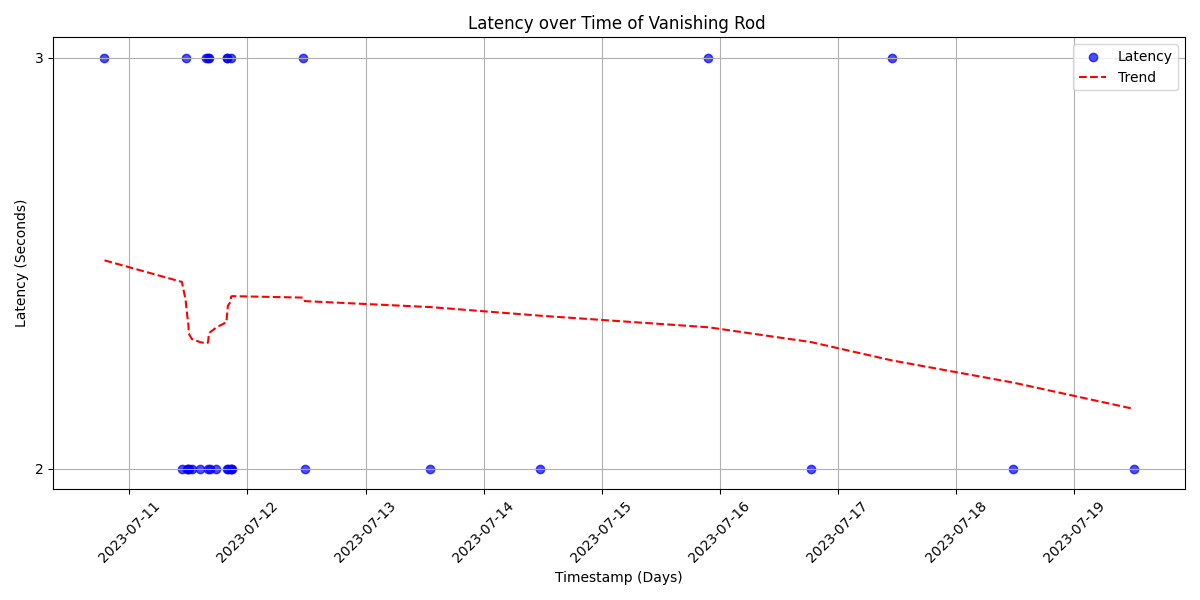
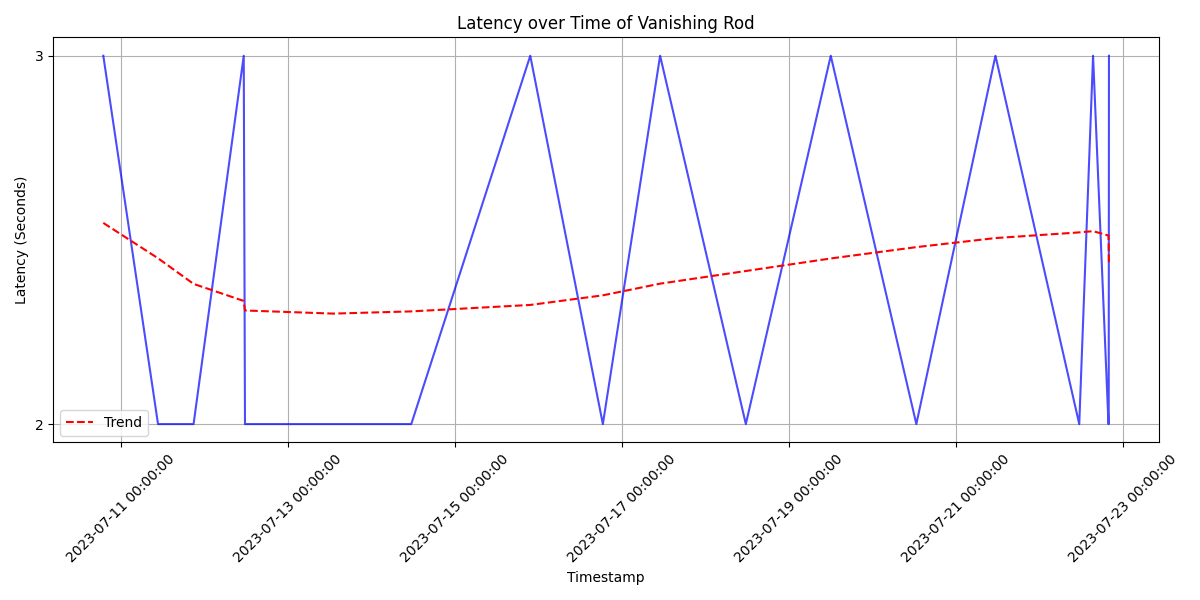
Add files via upload

diff --git a/vanishing_Labscale_purV1.0/lab_timing.py b/vanishing_Labscale_purV1.0/lab_timing.py
@@ -3,63 +3,74 @@ from skimage.metrics import structural_similarity as ssim
 from datetime import datetime
 import lab_selenium
 import logging
-logging.basicConfig(filename='lab_latency.log', filemode='a',format='%(asctime)s - %(levelname)s - %(message)s', level=logging.INFO)
+import os
+
+logging.basicConfig(filename='lab_latency.log', filemode='a', format='%(asctime)s - %(levelname)s - %(message)s', level=logging.INFO)
 arr = lab_selenium.timestamps
 print(arr)
-arr = [datetime.strptime(date_str, '%Y-%m-%d %H:%M:%S,%f') for date_str in arr]
+arr = [datetime.strptime(date_str, '%Y-%m-%d %H:%M:%S') for date_str in arr]
 
 # moving down click ka timestamp
-moving_down  = datetime.strptime(lab_selenium.d_movement, '%Y-%m-%d %H:%M:%S,,%f')
-print(moving_down)
+
+
+moving_down = datetime.strptime(lab_selenium.d_movement, '%Y-%m-%d %H:%M:%S')
+print("the moving down : ",moving_down)
+
 
 start_index = 0
-end_index = 9
+end_index = 8
 
 def check_latency(screenshot_paths):
     still_count = 0
     moving_count = 0
-    flag=0
-    # Iterate over consecutive pairs of screensots
-    for i in range(0,end_index+1,2):
+    flag = 0
+    timestamp1 = None  # Initialize timestamp1 to None
+
+    # Iterate over consecutive pairs of screenshots
+    for i in range(start_index, end_index, 2):
         # Load the current and next screenshots
-        # The dynamic number
         current_image = 'moving_down_lab/screenshot_{}.png'.format(i)
-        next_image  = 'moving_down_lab/screenshot_{}.png'.format(i+2)
+        next_image = 'moving_down_lab/screenshot_{}.png'.format(i + 1)
         print(current_image)
         print(next_image)
 
         current_image = cv2.imread(current_image)
         next_image = cv2.imread(next_image)
 
+        # Error handling for image loading
+        if current_image is None:
+            print(f"Error: Failed to load image {current_image}")
+            continue
+
+        if next_image is None:
+            print(f"Error: Failed to load image {next_image}")
+            continue
+
         # Compare the current and next screenshots
-        # similarity_score = compare_images(current_image, next_image)
         gray1 = cv2.cvtColor(current_image, cv2.COLOR_BGR2GRAY)
         gray2 = cv2.cvtColor(next_image, cv2.COLOR_BGR2GRAY)
 
         similarity_score = ssim(gray1, gray2)
         print(similarity_score)
 
-
         # Increment the appropriate counter
         similarity_threshold = 0.96
         if similarity_score >= similarity_threshold:
             print("moving")
-            
-            if flag!=1:
-                print("still --> moving")
-                # Timestamp 1
-                #timestamp1 = datetime.now()
-                timestamp1 = arr[i+1]
-                current_image = 'moving_down_lab/screenshot_{}.png'.format(i)
-                next_image  = 'moving_down_lab/screenshot_{}.png'.format(i+1)
+            if flag != 1:
+                if i < end_index:
+                    timestamp1 = arr[i + 1]
+                    current_image = 'moving_down_lab/screenshot_{}.png'.format(i)
+                    next_image = 'moving_down_lab/screenshot_{}.png'.format(i + 1)
+                if not (os.path.exists(current_image) and os.path.exists(next_image)):
+                    print(f"Error: Some screenshot files are missing. Skipping iteration {i}.")
+                    continue
                 print(current_image)
                 print(next_image)
 
                 current_image = cv2.imread(current_image)
                 next_image = cv2.imread(next_image)
 
-                # Compare the current and next screenshots
-                # similarity_score = compare_images(current_image, next_image)
                 gray1 = cv2.cvtColor(current_image, cv2.COLOR_BGR2GRAY)
                 gray2 = cv2.cvtColor(next_image, cv2.COLOR_BGR2GRAY)
 
@@ -68,16 +79,18 @@ def check_latency(screenshot_paths):
                 if similarity_score <= similarity_threshold:
                     still_count += 1
                     print("still")
-                    #time_diff-=2
-
+                    # timestamp1= arr[i]
                 else:
-                    moving_count+=1
+                    moving_count += 1
                     print("moving")
-                    timestamp1 = arr[i]
-            flag=1
+                    timestamp1 = arr[i+1]
+            flag = 1
+
+
 
     latency = (timestamp1 - moving_down).total_seconds()
     logging.info("Latency: %f seconds", latency)
+
 
 screenshot_paths = []
 

diff --git a/vanishing_Labscale_purV1.0/log_graph.py b/vanishing_Labscale_purV1.0/log_graph.py
@@ -1,4 +1,79 @@
+# import matplotlib.pyplot as plt
+# import numpy as np
+# from datetime import datetime
+
+# # Function to parse the log data and extract timestamps and latency values
+# def parse_log_data(log_data):
+#     timestamps = []
+#     latencies = []
+#     for line in log_data.strip().split('\n'):
+#         parts = line.split(' - ')
+#         timestamp_str = parts[0]
+#         latency_str = parts[2].split(': ')[1].split(' seconds')[0]
+        
+#         timestamp = datetime.strptime(timestamp_str, '%Y-%m-%d %H:%M:%S,%f')
+#         latency = float(latency_str)
+        
+#         timestamps.append(timestamp)
+#         latencies.append(latency)
+    
+#     return timestamps, latencies
+
+# # Read log data from the log file
+# log_file = "lab_latency.log"
+# with open(log_file, "r") as file:
+#     log_data = file.read()
+
+# # Parse the log data
+# timestamps, latencies = parse_log_data(log_data)
+
+# # Calculate the z-scores for latency values
+# z_scores = np.abs((latencies - np.mean(latencies)) / np.std(latencies))
+
+# # Define a threshold for outliers (e.g., 3 standard deviations)
+# outlier_threshold = 3
+
+# # Filter out data points with high z-scores (outliers)
+# timestamps_filtered = [ts for i, ts in enumerate(timestamps) if z_scores[i] <= outlier_threshold]
+# latencies_filtered = [lat for i, lat in enumerate(latencies) if z_scores[i] <= outlier_threshold]
+
+# # Create the plot
+# plt.figure(figsize=(12, 6))
+# plt.scatter(timestamps_filtered, latencies_filtered, marker='o', label='Latency', color='blue', alpha=0.7)
+# plt.xlabel('Timestamp (Days)')
+# plt.ylabel('Latency (Seconds)')
+# plt.title('Latency over Time of Vanishing Rod ')
+# plt.xticks(rotation=45)
+# plt.grid(True)
+
+# # Perform polynomial regression for the line of best fit (using filtered data)
+# z_filtered = np.polyfit(range(len(timestamps_filtered)), latencies_filtered, 3)
+# p_filtered = np.poly1d(z_filtered)
+# plt.plot(timestamps_filtered, p_filtered(range(len(timestamps_filtered))), label='Trend', color='red', linestyle='--')
+
+# # Set y-axis to show integers only
+# plt.locator_params(axis='y', integer=True)
+
+# # Save the plot as an image in the 'images' folder (create the folder if it doesn't exist)
+# output_folder = "latency_graph"
+# output_file = f"{output_folder}/latency_graph.png"
+
+# import os
+# if not os.path.exists(output_folder):
+#     os.makedirs(output_folder)
+
+# plt.tight_layout()
+# plt.legend()
+# plt.savefig(output_file)
+# plt.close()
+
+# print(f"Graph saved as '{output_file}'")
+
+
+
+# nagesh new graph code
 import matplotlib.pyplot as plt
+import matplotlib.dates as mdates
 import numpy as np
 from datetime import datetime
 
@@ -27,22 +102,25 @@ with open(log_file, "r") as file:
 # Parse the log data
 timestamps, latencies = parse_log_data(log_data)
 
+# Convert timestamps to matplotlib dates for better formatting
+timestamps_mpl = mdates.date2num(timestamps)
+
 # Calculate the z-scores for latency values
 z_scores = np.abs((latencies - np.mean(latencies)) / np.std(latencies))
 
 # Define a threshold for outliers (e.g., 3 standard deviations)
-outlier_threshold = 3
+outlier_threshold = 8
 
 # Filter out data points with high z-scores (outliers)
-timestamps_filtered = [ts for i, ts in enumerate(timestamps) if z_scores[i] <= outlier_threshold]
+timestamps_filtered = [ts for i, ts in enumerate(timestamps_mpl) if z_scores[i] <= outlier_threshold]
 latencies_filtered = [lat for i, lat in enumerate(latencies) if z_scores[i] <= outlier_threshold]
 
 # Create the plot
 plt.figure(figsize=(12, 6))
-plt.scatter(timestamps_filtered, latencies_filtered, marker='o', label='Latency', color='blue', alpha=0.7)
-plt.xlabel('Timestamp (Days)')
+plt.plot_date(timestamps_filtered, latencies_filtered, marker='', linestyle='-', color='blue', alpha=0.7)
+plt.xlabel('Timestamp')
 plt.ylabel('Latency (Seconds)')
-plt.title('Latency over Time of Vanishing Rod ')
+plt.title('Latency over Time of Vanishing Rod')
 plt.xticks(rotation=45)
 plt.grid(True)
 
@@ -53,6 +131,9 @@ plt.plot(timestamps_filtered, p_filtered(range(len(timestamps_filtered))), label
 
 # Set y-axis to show integers only
 plt.locator_params(axis='y', integer=True)
+
+# Set date format for x-axis ticks
+plt.gca().xaxis.set_major_formatter(mdates.DateFormatter('%Y-%m-%d %H:%M:%S'))
 
 # Save the plot as an image in the 'images' folder (create the folder if it doesn't exist)
 output_folder = "latency_graph"

diff --git a/vanishing_Labscale_purV1.0/lab_selenium.py b/vanishing_Labscale_purV1.0/lab_selenium.py
@@ -54,7 +54,7 @@ def process_video_frames(driver: webdriver.Chrome, video_xpath: str):
 
     for i in range(total_screenshots):
         video_screenshot = video_element.screenshot_as_png
-        update_timestamps(datetime.datetime.now().strftime("%Y-%m-%d %H:%M:%S,%f"))
+        update_timestamps(datetime.datetime.now().strftime("%Y-%m-%d %H:%M:%S"))
 
         if move == 0:
             screenshot_file = f"moving_down_lab/screenshot_{i}.png"
@@ -130,7 +130,7 @@ def perform_action(element):
     except NoSuchElementException:
         web_element = driver.find_element(By.XPATH, "//*[contains(text(), 'Exit Experiment')]")
         web_element.click()
-        # print(list(web_element))
+        # # print(list(web_element))
         print(f"Element not found: {locator_value}")
         return
 
@@ -143,7 +143,9 @@ def perform_action(element):
         #     web_element[2].click()
         # else:
         if locator_value == "//*[contains(text(), 'Move Down')]" :
-            d_movement = datetime.datetime.now().strftime('%Y-%m-%d %H:%M:%S,%f')
+            global d_movement
+            d_movement = datetime.datetime.now().strftime('%Y-%m-%d %H:%M:%S')
+            print("Time d_movement : ",d_movement)
             web_element.click()
         elif locator_value == "Vanishing Rod":
             script = """

diff --git a/vanishing_Labscale_purV1.0/rod_direction_lab.py b/vanishing_Labscale_purV1.0/rod_direction_lab.py
@@ -1,5 +1,4 @@
 import os
-import lab_timing
 import yaml
 from selenium import webdriver
 from selenium.webdriver.chrome.options import Options
